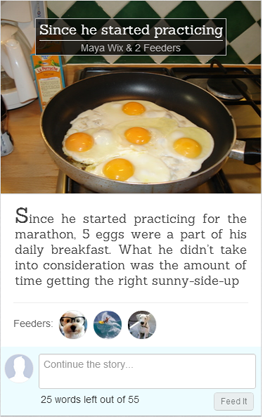
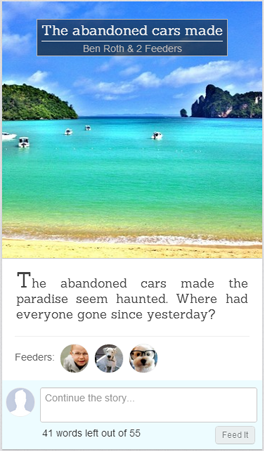
added images for hp and fixes some bug

diff --git a/app/assets/stylesheets/custom.css.scss b/app/assets/stylesheets/custom.css.scss
@@ -8,6 +8,7 @@ $title-font : 'Lobster';
 
 body {
 	font-family: "helvetica neue",arial,sans-serif;
+	background: $background-url;
 
 }
 
@@ -241,8 +242,11 @@ a.link {
 
 header {
 	background-color: $background-header;
-	border-bottom: 0;
+	
 	height: 45px;
+
+	
+
 	.navbar, 
 	.navbar-inner, 
 	.nav,
@@ -250,10 +254,10 @@ header {
 		float: right;
 		/*background: $background-color !important;*/
 		filter: none !important;
-		border: none;
+		/*border: none;
 		-webkit-box-shadow: none;
 	       -moz-box-shadow: none;
-	            box-shadow: none;
+	            box-shadow: none;*/
 		padding: 0px;
 		margin: 0;
 		/*height: 30px;
@@ -294,7 +298,43 @@ header {
 
 }
 
+
+.second-header {
+	position: fixed;
+	top: 0;
+	background: $background-header;
+	width: 100%;
+	z-index: 999;
+	display: none;
+	height: 33px;
+	border-bottom: 1px solid $background-header;
+
+	-webkit-box-shadow: 0px 1px 1px rgba(0,0,0,.15), 0px 2px 1px rgba(0,0,0,.10), 0px 3px 1px rgba(0,0,0,.05);
+	   -moz-box-shadow: 0px 1px 1px rgba(0,0,0,.15), 0px 2px 1px rgba(0,0,0,.10), 0px 3px 1px rgba(0,0,0,.05);
+    		box-shadow: 0px 1px 1px rgba(0,0,0,.15), 0px 2px 1px rgba(0,0,0,.10), 0px 3px 1px rgba(0,0,0,.05);
+	.navbar{
+		text-align: center;
+		margin: 0 auto;
+		.nav {
+			float: none;
+			display: inline-block;
+			li > a {
+				padding:5px 15px 5px;
+				color: #fff;
+			}
+
+
+		}
+	}
+	.navbar , .nav ,.navbar-inner
+	{
+		height: 32px;
+		min-height: 32px;
+	}
+}
+
 footer {
+
 	margin-top: 20px;
 	background-color: #323232;
 	padding: 10px;
@@ -1001,6 +1041,8 @@ footer {
 
 .error-message {
 	color: red;
+	float: left;
+	padding-left: 47px;
 }
 
 
@@ -1481,7 +1523,17 @@ ul.commentlist {
 	}
 }
 
-/* Start a stry wizard */
+/* First time modal disclaimer */
+#firstTimeDisclaimer {
+	font-family: $story-font;
+	width: 600px;
+	.disclaimer-body {
+		padding: 10px;
+		font-size: 15px;
+	}
+}
+
+/* Start a story wizard */
 #StartStoryModal {
 	h2,h3 {
 		/*text-align: center;*/
@@ -1501,7 +1553,9 @@ ul.commentlist {
 			opacity: 0.9;
 	}
 
-
+	.error-message {
+		padding: 0;
+	}
 	
 	
 	li {
@@ -1714,7 +1768,7 @@ ul.commentlist {
 
 	#upload-component {
 		#file {
-			display: none;
+			visibility: hidden;
 		}
 	}
 }

diff --git a/app/assets/javascripts/jquery.cookie.js b/app/assets/javascripts/jquery.cookie.js
@@ -1,0 +1,72 @@
+/*!
+ * jQuery Cookie Plugin v1.3
+ * https://github.com/carhartl/jquery-cookie
+ *
+ * Copyright 2011, Klaus Hartl
+ * Dual licensed under the MIT or GPL Version 2 licenses.
+ * http://www.opensource.org/licenses/mit-license.php
+ * http://www.opensource.org/licenses/GPL-2.0
+ */
+(function ($, document, undefined) {
+
+	var pluses = /\+/g;
+
+	function raw(s) {
+		return s;
+	}
+
+	function decoded(s) {
+		return decodeURIComponent(s.replace(pluses, ' '));
+	}
+
+	var config = $.cookie = function (key, value, options) {
+
+		// write
+		if (value !== undefined) {
+			options = $.extend({}, config.defaults, options);
+
+			if (value === null) {
+				options.expires = -1;
+			}
+
+			if (typeof options.expires === 'number') {
+				var days = options.expires, t = options.expires = new Date();
+				t.setDate(t.getDate() + days);
+			}
+
+			value = config.json ? JSON.stringify(value) : String(value);
+
+			return (document.cookie = [
+				encodeURIComponent(key), '=', config.raw ? value : encodeURIComponent(value),
+				options.expires ? '; expires=' + options.expires.toUTCString() : '', // use expires attribute, max-age is not supported by IE
+				options.path    ? '; path=' + options.path : '',
+				options.domain  ? '; domain=' + options.domain : '',
+				options.secure  ? '; secure' : ''
+			].join(''));
+		}
+
+		// read
+		var decode = config.raw ? raw : decoded;
+		var cookies = document.cookie.split('; ');
+		for (var i = 0, l = cookies.length; i < l; i++) {
+			var parts = cookies[i].split('=');
+			if (decode(parts.shift()) === key) {
+				var cookie = decode(parts.join('='));
+				return config.json ? JSON.parse(cookie) : cookie;
+			}
+		}
+
+		return null;
+	};
+
+	config.defaults = {};
+
+	$.removeCookie = function (key, options) {
+		if ($.cookie(key) !== null) {
+			$.cookie(key, null, options);
+			return true;
+		}
+		return false;
+	};
+
+})(jQuery, document);

diff --git a/public/500.html b/public/500.html
@@ -43,17 +43,15 @@
 
       <h1>500: Internal Server Error</h1>
 
-      <p>The 500 Internal Server Error is a server side error, meaning the problem is not with your computer or the internet connection but instead it is a problem with the web site's server.</p>
+      <p>The 500 Internal Server Error is a server side error, meaning the problem is not with your computer or the internet connection but with the web site's server.</p>
       <p>Our technical team has been notified and they are working to rectify it. Kindly bear with us. Thank you.</p>
 
-      <p>We apologize for this inconvenience. If you continue to experience technical difficulties with the page you're trying to reach please <a href='/contact'>contact us</a>.</p>
+      <p>We apologize for this inconvenience. If you continue to experience technical difficulties with the page you're trying to reach, please <a href='/contact'>contact us</a>.</p>
       
         
     </div>
     </div>
-    
-
-  
+ 
   
 </div>
 

diff --git a/public/404.html b/public/404.html
@@ -52,13 +52,11 @@
     <!-- <h2>The Feeders:</h2> -->
     
       <h1>Sorry, the page you requested was not found. </h1>
-<p>Try checking the URL for errors, then hit refresh button on your browser. If you continue to experience technical difficulties with the page you're trying to reach please <a href='/contact'>contact us</a>.</p>
+        <p>Try checking the URL for errors, then hit refresh button on your browser. If you continue to experience technical difficulties with the page you're trying to reach, please <a href='/contact'>contact us</a>.</p>
         
       </div>
     </div>
     
-
-  
   
 </div>
 

diff --git a/app/assets/stylesheets/style.css b/app/assets/stylesheets/style.css
@@ -100,12 +100,6 @@ hr {
 /* Header
 =================================================================== */
 	
-header {
-	background: #fff;
-	border-bottom: 5px solid #f6f6f6;
-}
-
-
 
 #social-links {
 	margin-top:20px;
@@ -745,7 +739,7 @@ input[type="button"] {
 =================================================================== */
 .alert {
 	font-family: Arial, sans-serif;
-	font-size: 12px;
+	font-size: 15px;
 	line-height: 18px;
 	margin-bottom: 15px;
 	position: relative;

diff --git a/app/assets/javascripts/custom.js b/app/assets/javascripts/custom.js
@@ -47,7 +47,7 @@ jQuery(document).ready(function () {
 function renderIsotope(tiles){
 	var $container = $(tiles);
 
-$(window).load(function(){
+
 	$(tiles).imagesLoaded( function(){
 		$(tiles).isotope({
 	  // options
@@ -57,8 +57,8 @@ $(window).load(function(){
 		    
 		  }
 		})
-	})
-});
+	});
+
 	// $(tiles).imagesLoaded(function(){
         
  //                var $container = $(tiles);

diff --git a/app/assets/javascripts/import_images.js b/app/assets/javascripts/import_images.js
@@ -43,7 +43,7 @@
         var re = /[^\u0000-\u0080]/;
         //errorLabel.empty();
         if (text.match(re)) {
-            errorLabel.html('Currently you can write in English only!').effect("highlight", {}, 3000);
+            errorLabel.html('Currently you can write in English.');
             $(button).removeClass('btn-primary').attr('disabled','disabled');
             
         }

diff --git a/db/seeds.rb b/db/seeds.rb
@@ -6,20 +6,11 @@
 #   cities = City.create([{ name: 'Chicago' }, { name: 'Copenhagen' }])
 #   Mayor.create(name: 'Emanuel', city: cities.first)
 
-['Animals', 'Art', 'Biographies', 'Business', 'Brands',
- 'Cars & Motorcycles', 'Celebrities', 'Christian', 'Christmas', 
- 'Comics', 'Confessions', 'Cookbooks', 'Crafts', 'Crime', 'Computers',
- 'Design', 'Dieting', 'DIY', 'Dreams', 'Education', 'Entertainment', 
- 'Fables', 'Family', 'Fantasy', 'Fashion', 'Fiction', 
- 'Music & Books', 'Food & Drink', 'Gardening', 'Gay & Lesbian', 'Geek', 
- 'Gothic', 'Health & Fitness', 'History', 'Hobbies', 'Holidays & Events', 
- 'Home', 'Horror', 'Humor', 'Investing', 'Kids', 'Law', 'Literature', 
- 'Linkedin', 'Medicine', 'Memoirs', 'Mystery', 'Nature', 'Outdoors', 
- 'Photography', 'Places', 'Politics', 'Professional', 'Relationships', 
- 'Religion', 'Romance', 'Science', 'Science Fiction', 'Spirituality', 'Spy', 
- 'Social Networks', 'Sports', 'Tattoos', 'Technical', 'Technology', 'Teens', 
- 'Thriller', 'Travel', 'TV', 'Twitter', 'Vacation', 'Weddings', 
- 'Westerns', 'Other'].each do |category|
+['Animals', 'Brands','Cars & Motorcycles','Confessions','Cool','Fashion',
+'Fiction','Food & Drink','Good & Bad','Holidays & Vacation','Home & Family',
+'Humor','Life','Love','Luck','Relationships','Money','Mystery & Fantasy','Nature',
+'Politics','Sports & Fitness','Teachers & Students','Thriller','Truth (TBT)',
+'Wisdom','Work'].each do |category|
 	Category.find_or_create_by_name category
 end
 

diff --git a/config/environments/production.rb b/config/environments/production.rb
@@ -52,7 +52,7 @@ FeedFiction::Application.configure do
   ENV["SMTP_USERNAME"] = 'yossish73'
   ENV["SMTP_PASSWORD"] = 'a1a2a3'
   # Don't care if the mailer can't send
-  config.action_mailer.raise_delivery_errors = true
+  config.action_mailer.raise_delivery_errors = false
 
   config.action_mailer.delivery_method = :smtp
   config.action_mailer.smtp_settings = {
@@ -65,7 +65,7 @@ FeedFiction::Application.configure do
     #openssl_verify_mode => 'none'
 
   }
-  config.action_mailer.default_url_options = { host: "alpha.feedfiction.com" }
+  config.action_mailer.default_url_options = { host: "feedfiction.com" }
 
   # Enable threaded mode
   # config.threadsafe!
@@ -84,11 +84,11 @@ FeedFiction::Application.configure do
   ENV['FACEBOOK_SECRET'] = 'c7974ab01e76c15d62823eca67f51d2d'
   ENV['INSTAGRAM_ID'] = 'bc404a3290414780a8d79ee241de94af'
   ENV['INSTAGRAM_SECRET'] = 'ead957b38e264addb8fd47d8aeecf2a9'
-  ENV['INSTAGRAM_CALLBACK'] = 'http://alpha.feedfiction.com/oauth/instagram/callback'
+  ENV['INSTAGRAM_CALLBACK'] = 'http://feedfiction.com/oauth/instagram/callback'
   ENV["AWS_ACCESS_KEY_ID"] = 'AKIAIKZTOEKGDO6YLPEQ'
   ENV["AWS_SECRET_ACCESS_KEY"] = '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'
   ENV["AWS_S3_BUCKET"] = 'feedfiction-images'
   ENV["AWS_S3_URL"] = "https://#{ENV["AWS_S3_BUCKET"]}.s3.amazonaws.com"
-  ENV["ROOT_URL"] = "http://alpha.feedfiction.com"
+  ENV["ROOT_URL"] = "http://feedfiction.com"
   
 end

diff --git a/config/environments/development.rb b/config/environments/development.rb
@@ -19,7 +19,7 @@ FeedFiction::Application.configure do
   config.whiny_nils = true
 
   # Show full error reports and disable caching
-  config.consider_all_requests_local       = false
+  config.consider_all_requests_local       = true
   config.action_controller.perform_caching = false
 
   ENV["SMTP_USERNAME"] = 'yossish73'
